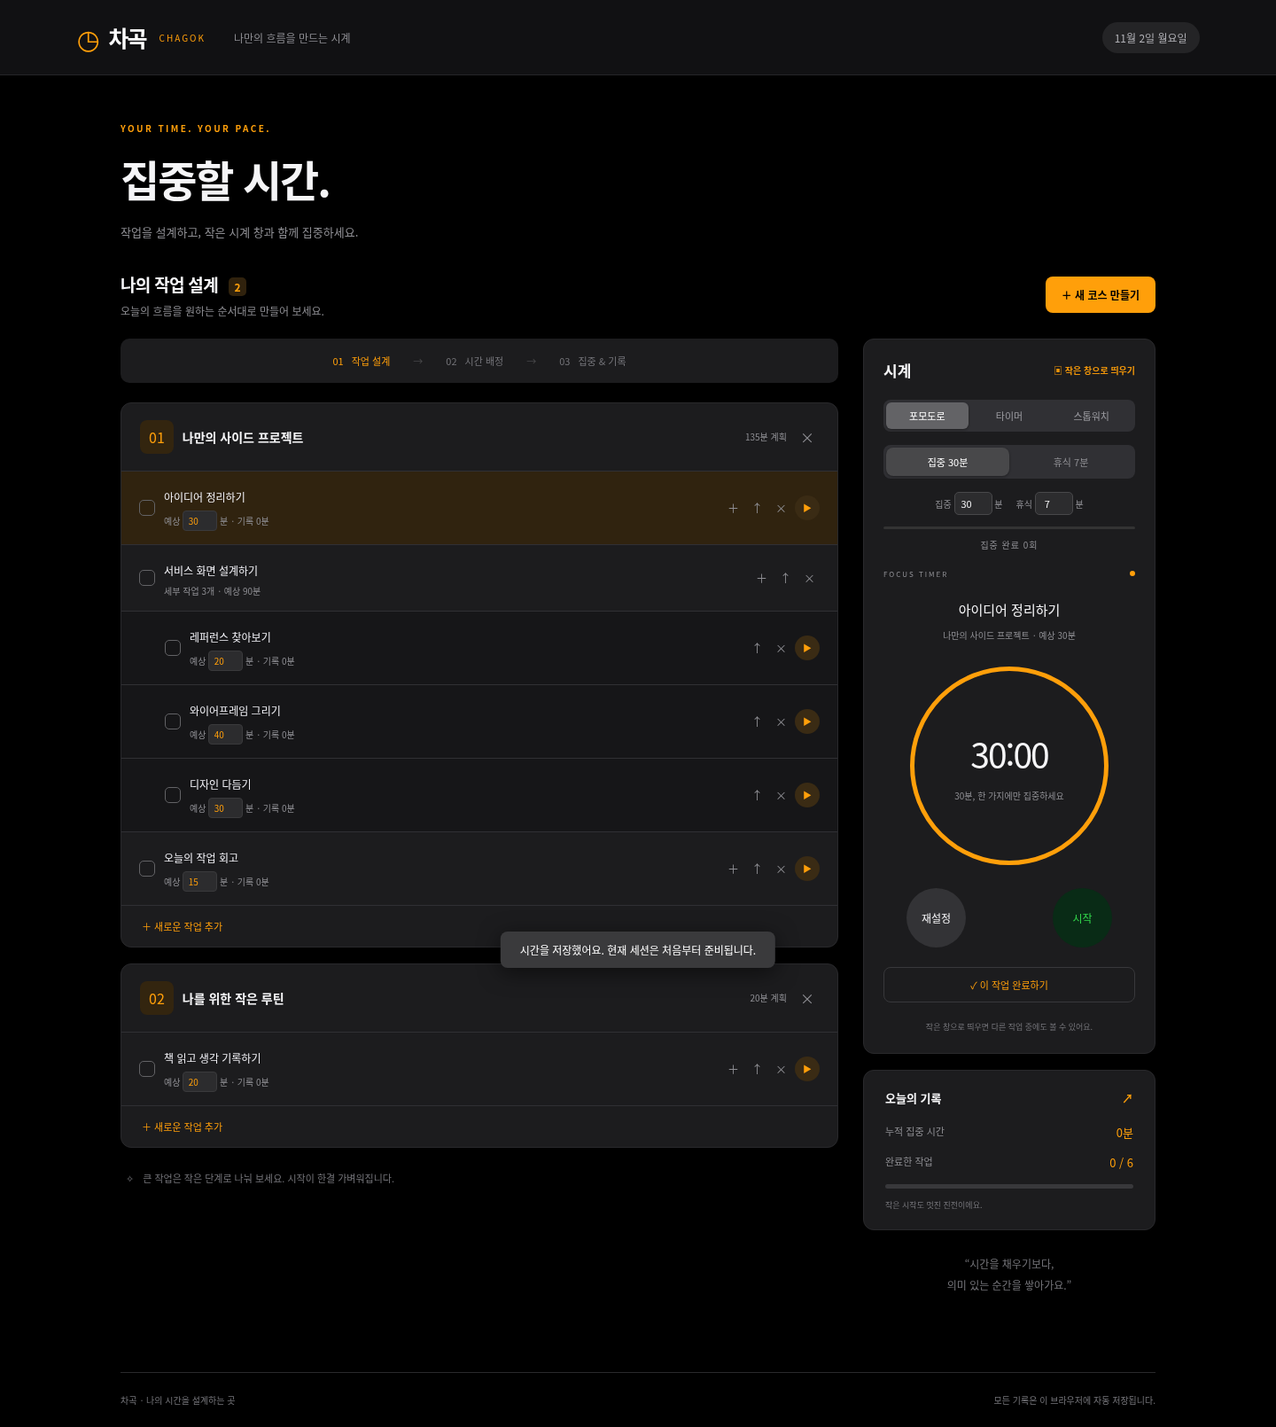
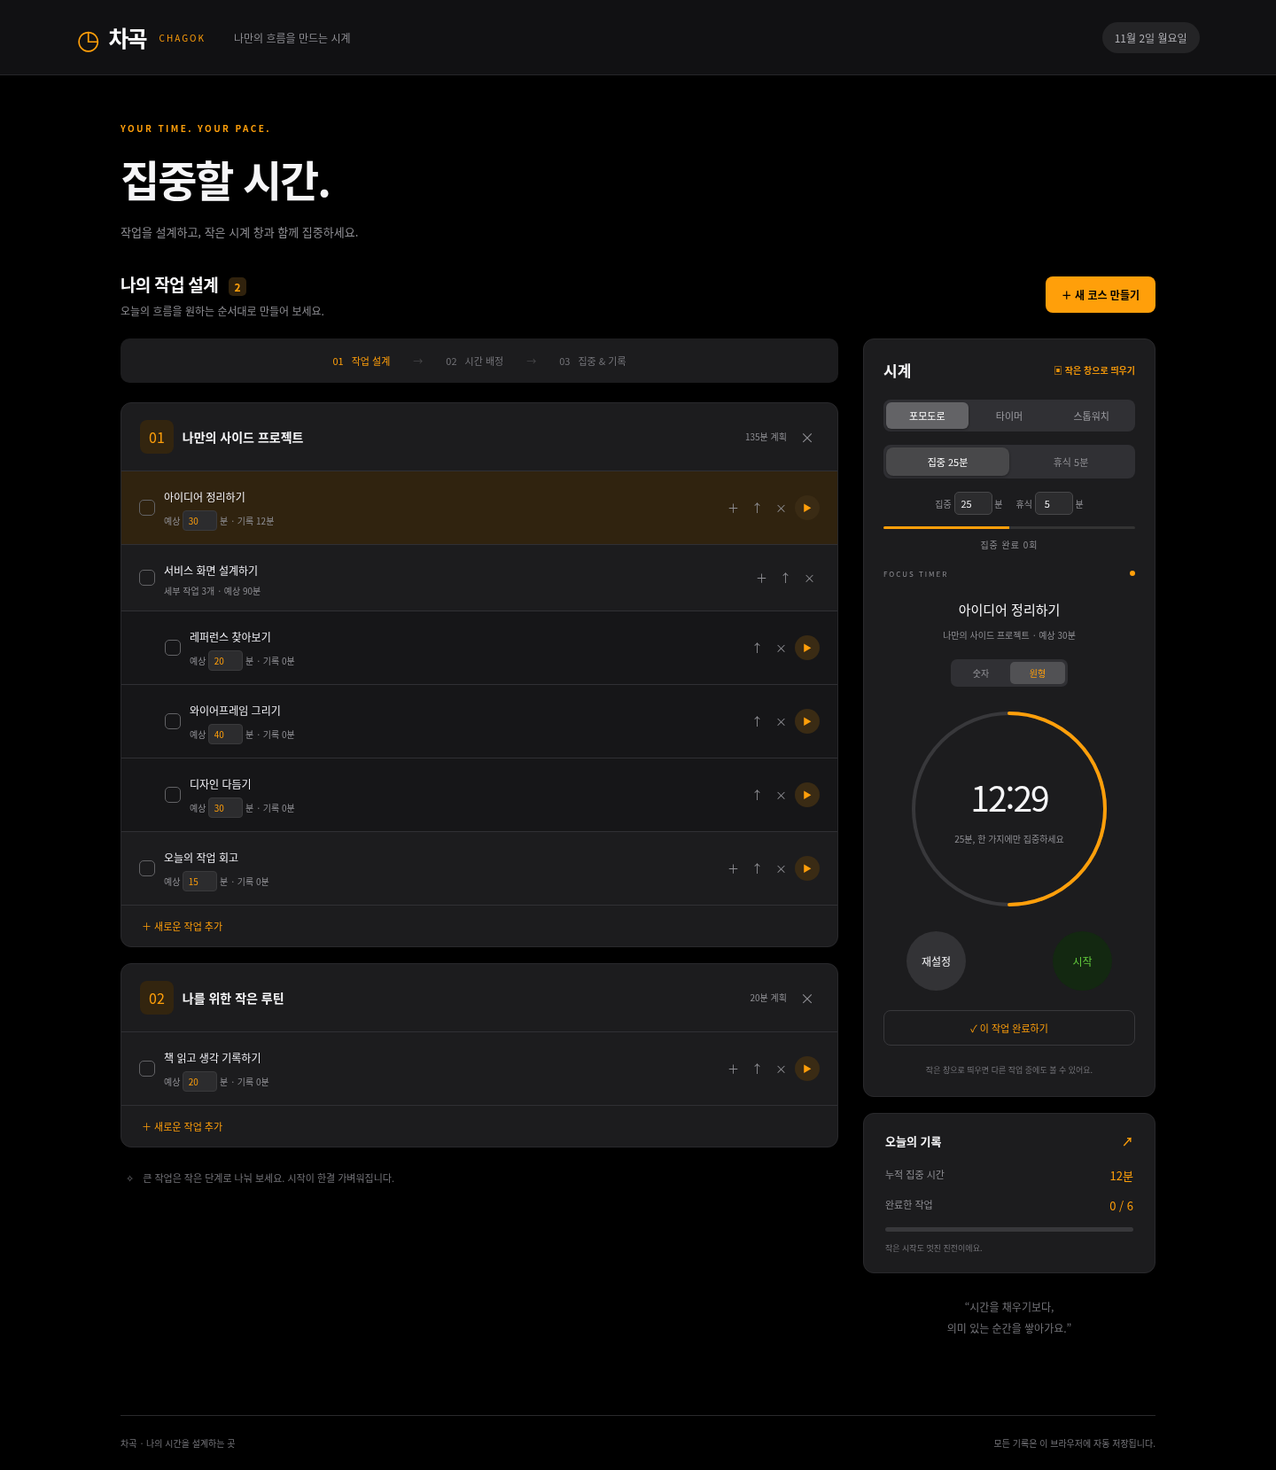
Add numeric and shrinking circular timer views

diff --git a/index.html b/index.html
@@ -1,1 +1,1 @@
-<!doctype html><html lang="ko"><head><meta charset="UTF-8"><meta name="viewport" content="width=device-width,initial-scale=1"><title>차곡 · 시계</title><link rel="stylesheet" href="/style.css"></head><body><header><a class="brand" href="/">◷ <b>차곡</b><span>CHAGOK</span></a><span class="header-note">나만의 흐름을 만드는 시계</span><span class="today" id="date"></span></header><main><section class="intro"><div class="eyebrow">YOUR TIME. YOUR PACE.</div><h1>집중할 시간.</h1><p>작업을 설계하고, 작은 시계 창과 함께 집중하세요.</p></section><div class="workspace-head"><div><h2>나의 작업 설계 <span id="course-count"></span></h2><p>오늘의 흐름을 원하는 순서대로 만들어 보세요.</p></div><button class="primary" id="add-course">＋ 새 코스 만들기</button></div><div class="layout"><section><div class="steps"><span class="selected">01 <b>작업 설계</b></span><i>→</i><span>02 <b>시간 배정</b></span><i>→</i><span>03 <b>집중 & 기록</b></span></div><div id="courses"></div><div class="tip">✧ <span>큰 작업은 작은 단계로 나눠 보세요. 시작이 한결 가벼워집니다.</span></div></section><aside><div class="timer-panel"><div class="timer-topbar"><span>시계</span><button id="float-timer" title="항상 위에 표시되는 작은 창 열기">▣ 작은 창으로 띄우기</button></div><div class="clock-tabs"><button id="mode-pomodoro" class="tab-active">포모도로</button><button id="mode-timer">타이머</button><button id="mode-stopwatch">스톱워치</button></div><div id="pomo-controls"><div class="pomo-tabs"><button id="pomo-focus" class="selected">집중 25분</button><button id="pomo-break">휴식 5분</button></div><div class="pomo-settings"><label>집중 <input id="focus-minutes" type="number" min="1" max="180" value="25" aria-label="집중 시간 (분)"> 분</label><label>휴식 <input id="break-minutes" type="number" min="1" max="180" value="5" aria-label="휴식 시간 (분)"> 분</label></div><div class="pomo-track"><div id="pomo-progress"></div></div><p id="pomo-count"></p></div><div class="panel-label"><span>FOCUS TIMER</span><span class="live-dot"></span></div><h3 id="focus-name">집중할 작업을 선택하세요</h3><p id="focus-course">작업 옆 재생 버튼을 눌러 시작하세요</p><div class="clock"><span id="timer">00:00:00</span><small id="timer-state">준비되셨나요?</small></div><div class="timer-actions"><button class="icon-button" id="reset" aria-label="현재 작업 시간 초기화">재설정</button><button class="primary" id="toggle">시작</button></div><button class="complete-button" id="complete">✓ 이 작업 완료하기</button><div class="timer-foot">작은 창으로 띄우면 다른 작업 중에도 볼 수 있어요.</div></div><div class="summary"><h3>오늘의 기록 <span>↗</span></h3><div><span>누적 집중 시간</span><b id="total-time">0분</b></div><div><span>완료한 작업</span><b id="done-count">0 / 0</b></div><div class="progress-track"><div id="progress"></div></div><p id="encouragement">작은 시작도 멋진 진전이에요.</p></div><div class="quote">“시간을 채우기보다,<br>의미 있는 순간을 쌓아가요.”</div></aside></div><footer><span>차곡 · 나의 시간을 설계하는 곳</span><span>모든 기록은 이 브라우저에 자동 저장됩니다.</span></footer></main><dialog id="course-dialog"><form id="course-form"><h2>새로운 코스</h2><p>함께 진행할 작업들을 하나의 코스로 묶어보세요.</p><label>코스 이름<input id="course-title" required maxlength="60" placeholder="예: 사이드 프로젝트 만들기"></label><div class="dialog-actions"><button type="button" id="cancel-dialog">취소</button><button class="primary">만들기</button></div></form></dialog><div id="toast" role="status"></div><script type="module" src="/app.js"></script></body></html>
+<!doctype html><html lang="ko"><head><meta charset="UTF-8"><meta name="viewport" content="width=device-width,initial-scale=1"><title>차곡 · 시계</title><link rel="stylesheet" href="/style.css"></head><body><header><a class="brand" href="/">◷ <b>차곡</b><span>CHAGOK</span></a><span class="header-note">나만의 흐름을 만드는 시계</span><span class="today" id="date"></span></header><main><section class="intro"><div class="eyebrow">YOUR TIME. YOUR PACE.</div><h1>집중할 시간.</h1><p>작업을 설계하고, 작은 시계 창과 함께 집중하세요.</p></section><div class="workspace-head"><div><h2>나의 작업 설계 <span id="course-count"></span></h2><p>오늘의 흐름을 원하는 순서대로 만들어 보세요.</p></div><button class="primary" id="add-course">＋ 새 코스 만들기</button></div><div class="layout"><section><div class="steps"><span class="selected">01 <b>작업 설계</b></span><i>→</i><span>02 <b>시간 배정</b></span><i>→</i><span>03 <b>집중 & 기록</b></span></div><div id="courses"></div><div class="tip">✧ <span>큰 작업은 작은 단계로 나눠 보세요. 시작이 한결 가벼워집니다.</span></div></section><aside><div class="timer-panel"><div class="timer-topbar"><span>시계</span><button id="float-timer" title="항상 위에 표시되는 작은 창 열기">▣ 작은 창으로 띄우기</button></div><div class="clock-tabs"><button id="mode-pomodoro" class="tab-active">포모도로</button><button id="mode-timer">타이머</button><button id="mode-stopwatch">스톱워치</button></div><div id="pomo-controls"><div class="pomo-tabs"><button id="pomo-focus" class="selected">집중 25분</button><button id="pomo-break">휴식 5분</button></div><div class="pomo-settings"><label>집중 <input id="focus-minutes" type="number" min="1" max="180" value="25" aria-label="집중 시간 (분)"> 분</label><label>휴식 <input id="break-minutes" type="number" min="1" max="180" value="5" aria-label="휴식 시간 (분)"> 분</label></div><div class="pomo-track"><div id="pomo-progress"></div></div><p id="pomo-count"></p></div><div class="panel-label"><span>FOCUS TIMER</span><span class="live-dot"></span></div><h3 id="focus-name">집중할 작업을 선택하세요</h3><p id="focus-course">작업 옆 재생 버튼을 눌러 시작하세요</p><div class="timer-view-switch" role="group" aria-label="타이머 표시 방식"><button id="view-numeric" aria-pressed="true">숫자</button><button id="view-circle" aria-pressed="false">원형</button></div><div class="clock" data-timer-view="numeric"><svg id="timer-dial" class="timer-dial" viewBox="0 0 224 224" role="img" aria-label="남은 시간"><circle class="dial-track" cx="112" cy="112" r="108"/><circle class="dial-remaining" id="dial-remaining" cx="112" cy="112" r="108" pathLength="100" stroke-dasharray="100" stroke-dashoffset="0"/></svg><span id="timer">00:00:00</span><small id="timer-state">준비되셨나요?</small></div><div class="timer-actions"><button class="icon-button" id="reset" aria-label="현재 작업 시간 초기화">재설정</button><button class="primary" id="toggle">시작</button></div><button class="complete-button" id="complete">✓ 이 작업 완료하기</button><div class="timer-foot">작은 창으로 띄우면 다른 작업 중에도 볼 수 있어요.</div></div><div class="summary"><h3>오늘의 기록 <span>↗</span></h3><div><span>누적 집중 시간</span><b id="total-time">0분</b></div><div><span>완료한 작업</span><b id="done-count">0 / 0</b></div><div class="progress-track"><div id="progress"></div></div><p id="encouragement">작은 시작도 멋진 진전이에요.</p></div><div class="quote">“시간을 채우기보다,<br>의미 있는 순간을 쌓아가요.”</div></aside></div><footer><span>차곡 · 나의 시간을 설계하는 곳</span><span>모든 기록은 이 브라우저에 자동 저장됩니다.</span></footer></main><dialog id="course-dialog"><form id="course-form"><h2>새로운 코스</h2><p>함께 진행할 작업들을 하나의 코스로 묶어보세요.</p><label>코스 이름<input id="course-title" required maxlength="60" placeholder="예: 사이드 프로젝트 만들기"></label><div class="dialog-actions"><button type="button" id="cancel-dialog">취소</button><button class="primary">만들기</button></div></form></dialog><div id="toast" role="status"></div><script type="module" src="/app.js"></script></body></html>

diff --git a/floating-window.js b/floating-window.js
@@ -25,6 +25,11 @@ button { border: 0; }
 }
 .time-heading { display: flex; align-items: center; justify-content: space-between; min-width: 0; }
 .time-heading h1 { margin: 0; color: var(--accent); font-size: 13px; line-height: 20px; font-weight: 500; }
+.heading-tools { display: flex; align-items: center; gap: 8px; }
+.view-switch { display: grid; grid-template-columns: repeat(2, 24px); padding: 2px; background: #28282b; border-radius: 7px; }
+.view-switch button { display: grid; place-items: center; width: 24px; height: 24px; padding: 0; border-radius: 5px; background: transparent; color: var(--muted); font-size: 10px; }
+.view-switch button[aria-pressed="true"] { color: var(--accent); background: #4a4a4d; }
+.view-switch button:disabled { opacity: .35; cursor: default; }
 .settings-toggle {
   padding: 4px; width: 28px; height: 28px; display: grid; place-items: center;
   color: var(--muted); background: transparent; border-radius: 7px;
@@ -50,6 +55,16 @@ body[data-long-time="true"] #mini-timer { font-size: 46px; letter-spacing: -2px;
 #mini-timer-state { margin-top: 7px; font-size: 10px; line-height: 14px; color: var(--muted); }
 .pomo-track { margin-top: auto; height: 2px; background: #303033; border-radius: 2px; flex-shrink: 0; overflow: hidden; }
 #mini-pomo-progress { height: 100%; background: var(--accent); }
+.timer-dial { display: none; }
+body[data-timer-view="circle"] .readout { position: relative; align-items: center; justify-content: center; }
+body[data-timer-view="circle"] .timer-dial { display: block; position: absolute; inset: 0; width: 114px; height: 114px; margin: auto; }
+.timer-dial circle { fill: none; stroke-width: 3; }
+.timer-dial .dial-track { stroke: #303033; }
+.timer-dial .dial-remaining { stroke: var(--accent); stroke-linecap: round; transform: rotate(-90deg); transform-origin: center; }
+body[data-timer-view="circle"] .time-accent, body[data-timer-view="circle"] .pomo-track { display: none; }
+body[data-timer-view="circle"] #mini-timer { margin: 0; font-size: 26px; line-height: 32px; letter-spacing: -1px; z-index: 1; }
+body[data-timer-view="circle"][data-long-time="true"] #mini-timer { font-size: 22px; }
+body[data-timer-view="circle"] #mini-timer-state { margin-top: 4px; font-size: 8px; z-index: 1; }
 .task-panel { min-width: 0; display: grid; grid-template-rows: 18px 52px 12px; row-gap: 16px; }
 #mini-focus-name {
   margin: 0; font-size: 12px; line-height: 18px; font-weight: 400; color: #c5c5cb;
@@ -89,15 +104,22 @@ const markup = `
 <main class="clock-layout" aria-label="작은 시계">
   <div class="time-heading">
     <h1>타이머</h1>
+    <div class="heading-tools">
+      <div class="view-switch" role="group" aria-label="타이머 표시 방식">
+        <button id="mini-view-numeric" aria-label="숫자 보기" title="숫자 보기" aria-pressed="true">12</button>
+        <button id="mini-view-circle" aria-label="원형 보기" title="원형 보기" aria-pressed="false"><svg width="14" height="14" viewBox="0 0 16 16" fill="none" aria-hidden="true"><circle cx="8" cy="8" r="5.5" stroke="currentColor" stroke-width="1.5" opacity=".3"/><path d="M8 2.5a5.5 5.5 0 0 1 5.5 5.5" stroke="currentColor" stroke-width="1.5" stroke-linecap="round"/></svg></button>
+      </div>
     <button class="settings-toggle" id="mini-settings-toggle" aria-label="시간 설정" aria-expanded="false" aria-controls="mini-settings">
       <svg width="17" height="17" viewBox="0 0 24 24" fill="none" stroke="currentColor" stroke-width="1.5" aria-hidden="true"><circle cx="12" cy="12" r="3"/><path d="m10 3 4 0 .6 2.5 2 .9 2.3-.8 2 3.5-1.8 1.7v2.4l1.8 1.7-2 3.5-2.3-.8-2 .9L14 21h-4l-.6-2.5-2-.9-2.3.8-2-3.5 1.8-1.7v-2.4L3.1 9.1l2-3.5 2.3.8 2-.9Z"/></svg>
     </button>
+    </div>
   </div>
   <div class="pomo-tabs" role="group" aria-label="집중 또는 휴식">
     <button id="mini-pomo-focus">집중</button>
     <button id="mini-pomo-break">휴식</button>
   </div>
   <section class="readout" aria-label="남은 시간">
+    <svg class="timer-dial" viewBox="0 0 114 114" aria-hidden="true"><circle class="dial-track" cx="57" cy="57" r="53"/><circle class="dial-remaining" id="mini-dial-remaining" cx="57" cy="57" r="53" pathLength="100" stroke-dasharray="100" stroke-dashoffset="0"/></svg>
     <div class="time-accent" aria-hidden="true"></div>
     <span id="mini-timer"></span>
     <small id="mini-timer-state"></small>
@@ -120,7 +142,7 @@ const markup = `
   <label><span>휴식</span><input id="mini-break-minutes" type="number" min="1" max="180" aria-label="휴식 시간"> 분</label>
 </section>`;
 
-export function createFloatingClock(doc, { onAction, onDurationChange }) {
+export function createFloatingClock(doc, { onAction, onDurationChange, onViewChange }) {
   doc.documentElement.lang = 'ko';
   doc.head.innerHTML = '<meta name="viewport" content="width=device-width,initial-scale=1"><title>차곡 · 시계</title>';
   const style = doc.createElement('style');
@@ -145,6 +167,9 @@ export function createFloatingClock(doc, { onAction, onDurationChange }) {
   });
   for (const id of ['toggle', 'reset', 'complete', 'pomo-focus', 'pomo-break']) {
     doc.getElementById('mini-' + id).onclick = () => onAction(id);
+  }
+  for (const view of ['numeric', 'circle']) {
+    doc.getElementById('mini-view-' + view).onclick = () => onViewChange(view);
   }
   for (const id of ['focus-minutes', 'break-minutes']) {
     doc.getElementById('mini-' + id).onchange = event => onDurationChange(id, event.target.value);

diff --git a/app.js b/app.js
@@ -5,6 +5,7 @@ let clockMode="pomodoro",floatingWindow=null;
 const uid=()=>crypto.randomUUID();
 const seed=()=>({courses:[{id:uid(),name:'나만의 사이드 프로젝트',tasks:[{id:uid(),name:'아이디어 정리하기',minutes:30,elapsed:0,done:false,children:[]},{id:uid(),name:'서비스 화면 설계하기',minutes:90,elapsed:0,done:false,children:[{id:uid(),name:'레퍼런스 찾아보기',minutes:20,elapsed:0,done:false,children:[]},{id:uid(),name:'와이어프레임 그리기',minutes:40,elapsed:0,done:false,children:[]},{id:uid(),name:'디자인 다듬기',minutes:30,elapsed:0,done:false,children:[]}]},{id:uid(),name:'오늘의 작업 회고',minutes:15,elapsed:0,done:false,children:[]}]},{id:uid(),name:'나를 위한 작은 루틴',tasks:[{id:uid(),name:'책 읽고 생각 기록하기',minutes:20,elapsed:0,done:false,children:[]}]}],active:null,started:null});
 let state;try{state=JSON.parse(localStorage.getItem('chagok-v1'))}catch{}if(!state?.courses)state=seed();
+state.timerView = state.timerView === "circle" ? "circle" : "numeric";
 state.pomo ||= {phase:'focus',elapsed:0,started:null,rounds:0};
 state.pomo.focusMinutes ||= 25;state.pomo.breakMinutes ||= 5;
 const pomoDuration=()=>60*(state.pomo.phase==='focus'?state.pomo.focusMinutes:state.pomo.breakMinutes);
@@ -45,6 +46,10 @@ function syncFloating(){
  }
  for(const id of ['focus-minutes','break-minutes']){const input=doc.getElementById('mini-'+id);if(input&&doc.activeElement!==input)input.value=document.getElementById(id).value;}
  doc.body.dataset.phase=state.pomo.phase;
+ doc.body.dataset.timerView=effectiveTimerView();
+ for(const view of ['numeric','circle'])doc.getElementById('mini-view-'+view).setAttribute('aria-pressed',String(effectiveTimerView()===view));
+ doc.getElementById('mini-view-circle').disabled=clockMode==='stopwatch';
+ doc.getElementById('mini-dial-remaining').setAttribute('stroke-dashoffset',String(100*(1-remainingFraction())));
  doc.body.dataset.longTime=String($('#timer').textContent.length>5);
  if(clockMode==='pomodoro'){const p=state.pomo;doc.getElementById('mini-timer-state').textContent=`${p.phase==='focus'?p.focusMinutes:p.breakMinutes}분 · ${p.phase==='focus'?'집중':'휴식'} ${p.started?'중':'준비'}`;}
  for(const phase of ['focus','break'])doc.getElementById('mini-pomo-'+phase).setAttribute('aria-pressed',String(state.pomo.phase===phase));
@@ -60,7 +65,8 @@ $('#float-timer').onclick=async()=>{
   const doc=floatingWindow.document;
   createFloatingClock(doc, {
     onAction: id => { document.getElementById(id).click(); syncFloating(); },
-    onDurationChange: (id, value) => { setPomoMinutes(id, value); syncFloating(); }
+    onDurationChange: (id, value) => { setPomoMinutes(id, value); syncFloating(); },
+    onViewChange: view => setTimerView(view)
   });
   syncFloating();
   if(!pinned)toast('별도 창을 열었어요. 항상 위 고정은 데스크톱 Chrome·Edge에서 지원됩니다.');
@@ -79,6 +85,7 @@ function updateTimer(){
  if(clockMode==='pomodoro'){
   const remaining=Math.max(0,pomoDuration()-pomoSeconds());$('#timer').textContent=`${String(Math.floor(remaining/60)).padStart(2,'0')}:${String(Math.floor(remaining)%60).padStart(2,'0')}`;$('#timer-state').textContent=isFocus?(p.started?'지금은 집중하는 시간':`${p.focusMinutes}분, 한 가지에만 집중하세요`):(p.started?'잠시 쉬어가세요':`${p.breakMinutes}분 휴식 준비`);$('#toggle').textContent=p.started?'일시 정지':'시작';$('#toggle').classList.toggle('running',Boolean(p.started));if(!isFocus){$('#focus-name').textContent='잠깐의 쉼, 다음 집중을 위해';$('#focus-course').textContent='스트레칭하거나 물 한 잔 마셔보세요.'}
  }
+ updateTimerView();
  syncFloating();
 }
 const originalToggle=$('#toggle').onclick;
@@ -96,3 +103,27 @@ function setPomoMinutes(id,value){
  toast('시간을 저장했어요.'+(state.pomo.phase===phase?' 현재 세션은 처음부터 준비됩니다.':''));
 }
 for(const id of ['focus-minutes','break-minutes'])document.getElementById(id).onchange=e=>setPomoMinutes(id,e.target.value);
+
+function effectiveTimerView(){return clockMode==='stopwatch'?'numeric':state.timerView}
+function remainingFraction(){
+ if(clockMode==='stopwatch')return 1;
+ const t=active();
+ const duration=clockMode==='pomodoro'?pomoDuration():(t?.minutes||0)*60;
+ const elapsed=clockMode==='pomodoro'?pomoSeconds():(t?seconds(t):0);
+ return duration?Math.max(0,Math.min(1,1-elapsed/duration)):0;
+}
+function updateTimerView(){
+ const view=effectiveTimerView();
+ document.querySelector('.clock').dataset.timerView=view;
+ for(const type of ['numeric','circle'])$('#view-'+type).setAttribute('aria-pressed',String(view===type));
+ $('#view-circle').disabled=clockMode==='stopwatch';
+ const fraction=remainingFraction();
+ $('#dial-remaining').setAttribute('stroke-dashoffset',String(100*(1-fraction)));
+ $('#timer-dial').setAttribute('aria-label',`남은 시간 ${Math.round(fraction*100)}퍼센트`);
+}
+function setTimerView(view){
+ if(!['numeric','circle'].includes(view)||clockMode==='stopwatch')return;
+ state.timerView=view;save();updateTimerView();syncFloating();
+}
+$('#view-numeric').onclick=()=>setTimerView('numeric');
+$('#view-circle').onclick=()=>setTimerView('circle');

diff --git a/style.css b/style.css
@@ -6,3 +6,4 @@
 .pomo-settings{display:flex;justify-content:center;gap:15px;color:#8e8e93;font-size:10px;margin:0 0 13px}.pomo-settings input{background:#2c2c2e;color:#f5f5f7;border:1px solid #48484a;border-radius:5px;width:43px;padding:4px;text-align:center;font-size:11px}
 /* Apple Clock palette and controls */
 .pomo-tabs .selected{background:#48484a;color:#fff}.pomo-track div{background:#ff9f0a}.clock{border-color:#ff9f0a}.clock>span{color:#f5f5f7;font-weight:200}.timer-panel .timer-topbar button{color:#ff9f0a}.pomo-tabs{background:#303034;border-radius:8px;padding:3px;gap:0}.pomo-tabs button{flex:1;background:transparent}.pomo-tabs .selected{box-shadow:0 1px 3px #0005}.pomo-settings{color:#8e8e93}.clock-tabs{margin-bottom:15px}
+.timer-view-switch{display:flex;justify-content:center;gap:2px;width:132px;margin:18px auto 0;padding:3px;background:#303034;border-radius:7px}.timer-view-switch button{flex:1;padding:5px 8px;color:#8e8e93;font-size:10px;border-radius:5px}.timer-view-switch button[aria-pressed="true"]{background:#515154;color:#ff9f0a}.timer-view-switch button:disabled{opacity:.35;cursor:default}.clock[data-timer-view]{position:relative;border:0}.clock .timer-dial{position:absolute;inset:0;width:100%;height:100%;display:none}.clock[data-timer-view="circle"] .timer-dial{display:block}.timer-dial circle{fill:none;stroke-width:4}.timer-dial .dial-track{stroke:#38383b}.timer-dial .dial-remaining{stroke:#ff9f0a;stroke-linecap:round;transform:rotate(-90deg);transform-origin:center}.clock>span,.clock>small{position:relative;z-index:1}

diff --git a/README.md b/README.md
@@ -41,3 +41,11 @@ npm start
 기본 집중 25분·휴식 5분으로 시작합니다. 본 화면과 작은 창에서 각각 1~180분으로 설정할 수 있으며 브라우저에 자동 저장됩니다. 현재 단계의 시간을 바꾸면 측정을 멈추고 해당 세션을 초기화하며, 누적 작업 시간은 유지합니다. 집중 종료 시 완료 횟수를 기록하고 휴식 준비로 전환합니다. 다음 단계는 시작 버튼을 눌러 진행합니다. 휴식은 작업 집중 시간에 포함되지 않습니다.
 
 작은 시계 창은 480×210 크기의 가로형 레이아웃입니다. 왼쪽에 시간과 진행률, 오른쪽에 작업명과 원형 조작 버튼을 배치했습니다. 왼쪽 제목 옆 설정 아이콘에서 집중·휴식 시간을 변경합니다. 재설정·시작·완료는 같은 크기의 원형 버튼으로, 동일한 간격을 두고 배치했습니다.
+
+## 숫자 / 원형 보기
+
+본 화면의 **숫자·원형** 버튼이나 작은 창 제목 옆 보기 아이콘으로 전환합니다. 숫자 보기는 남은 시간을 크게 표시하고, 원형 보기는 주황색 링이 남은 시간에 비례해 줄어듭니다. 원형 가운데에도 정확한 남은 시간을 표시합니다.
+
+보기 변경은 실행·일시 정지 상태와 남은 시간에 영향을 주지 않으며 자동 저장됩니다. 포모도로 집중·휴식과 일반 타이머에서 사용할 수 있습니다. 종료 시간이 정해져 있지 않은 스톱워치는 숫자로 표시합니다.
+
+![원형으로 보는 남은 시간](screenshots/chagok-floating-circle.png)
